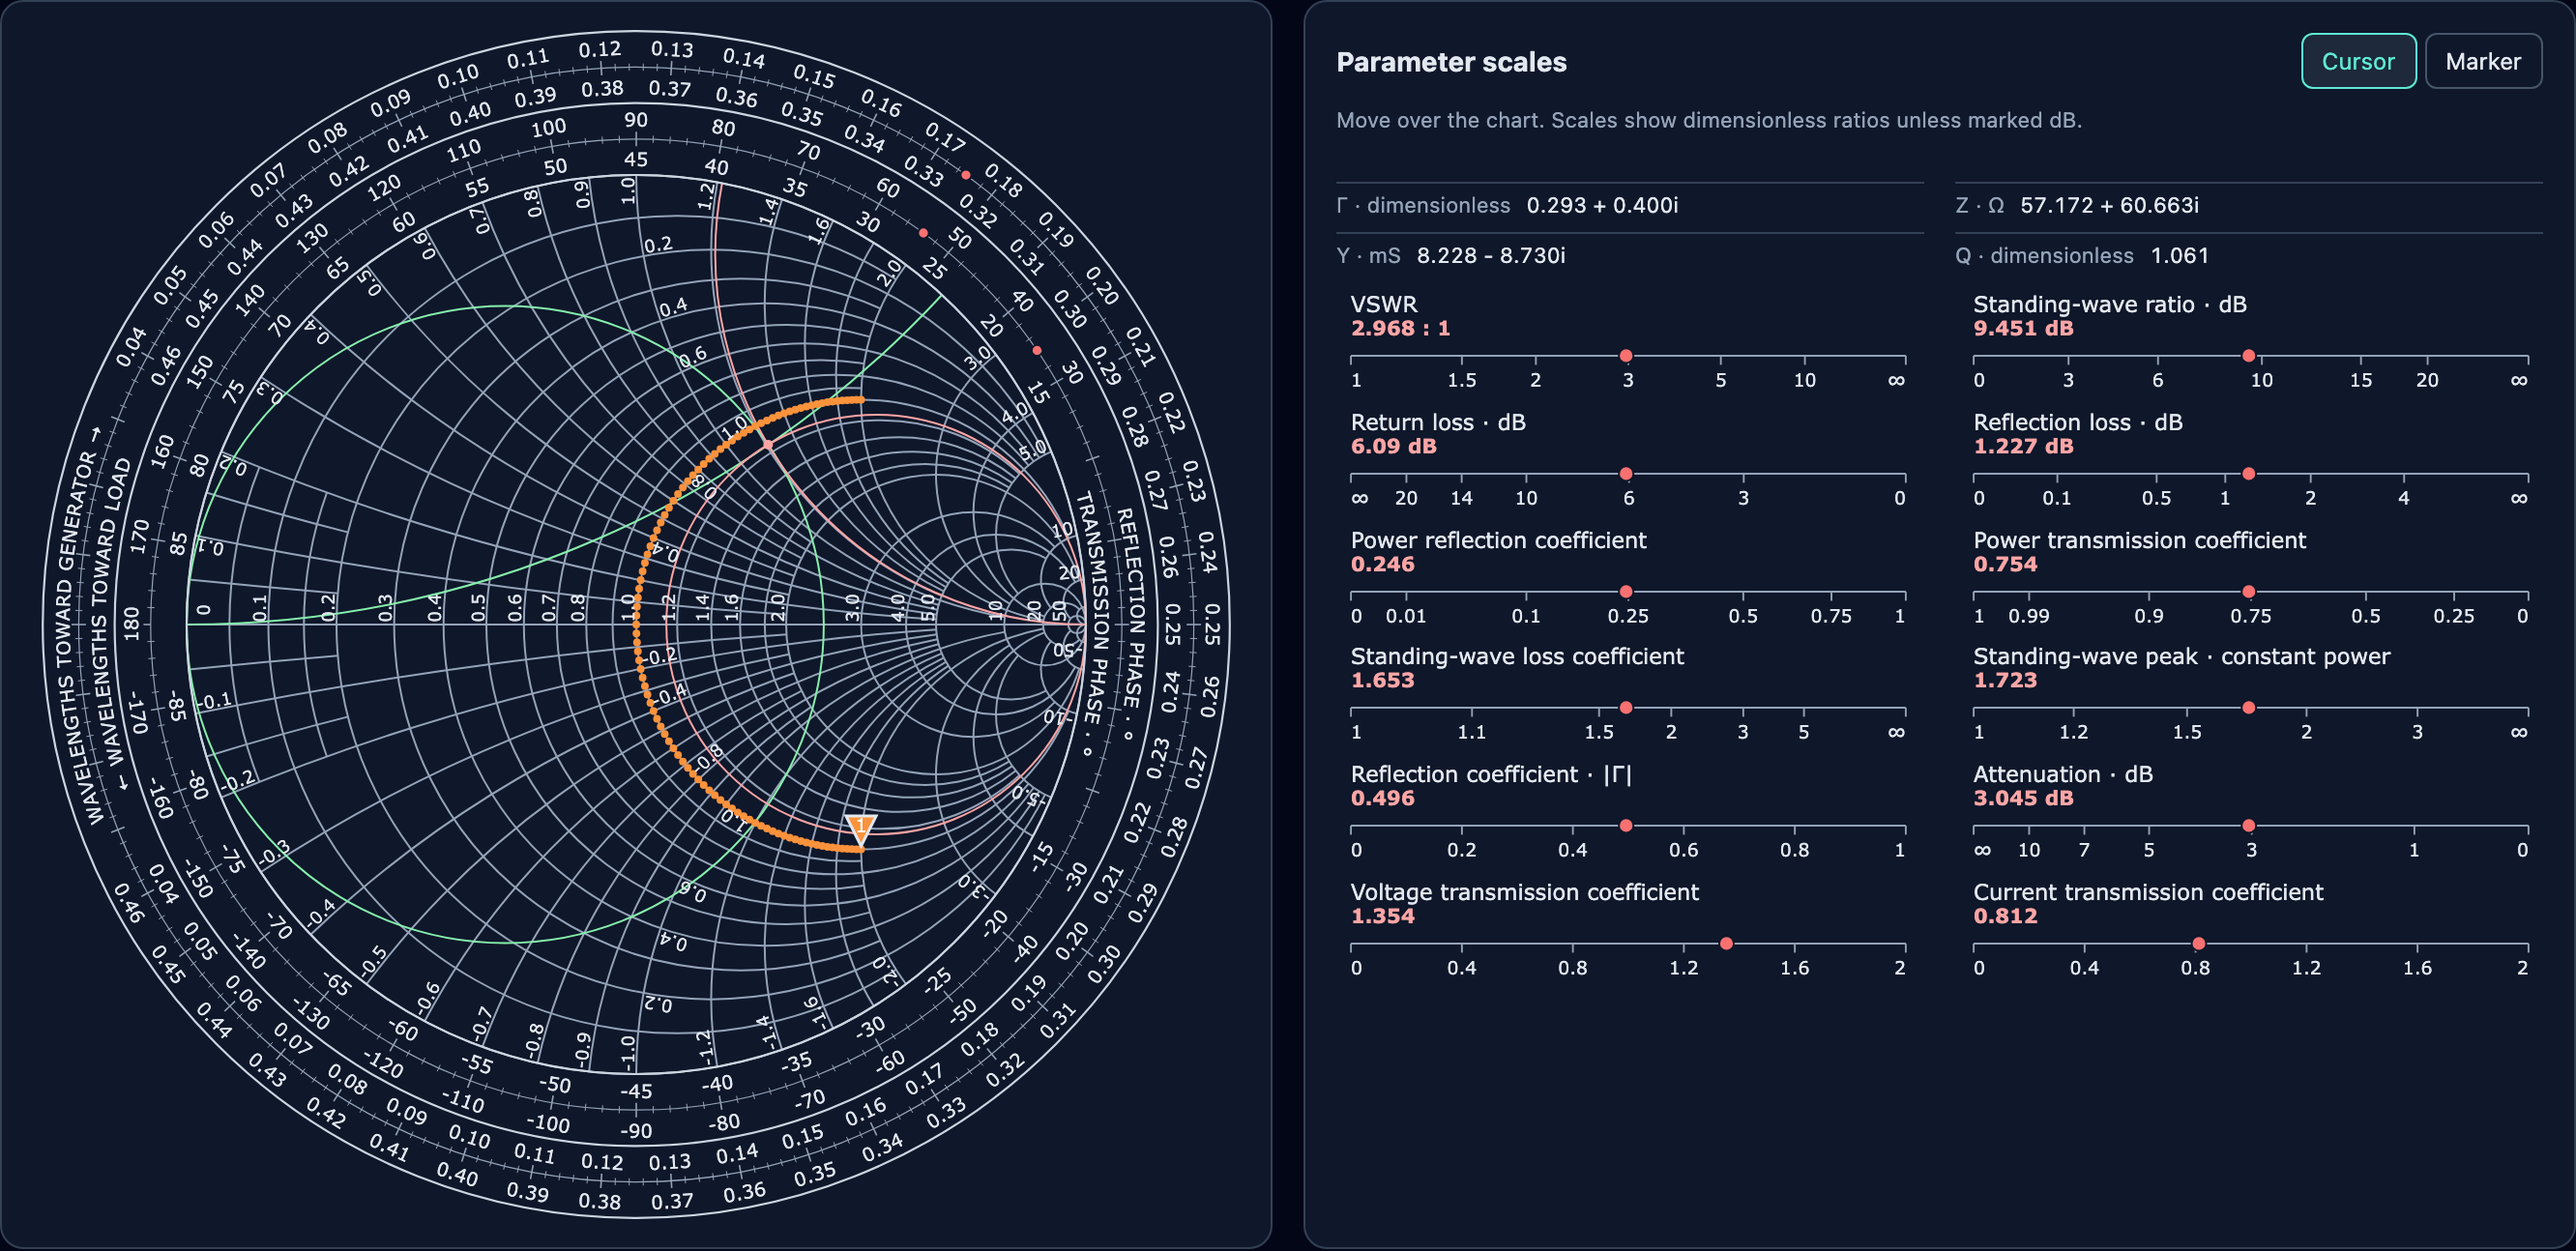
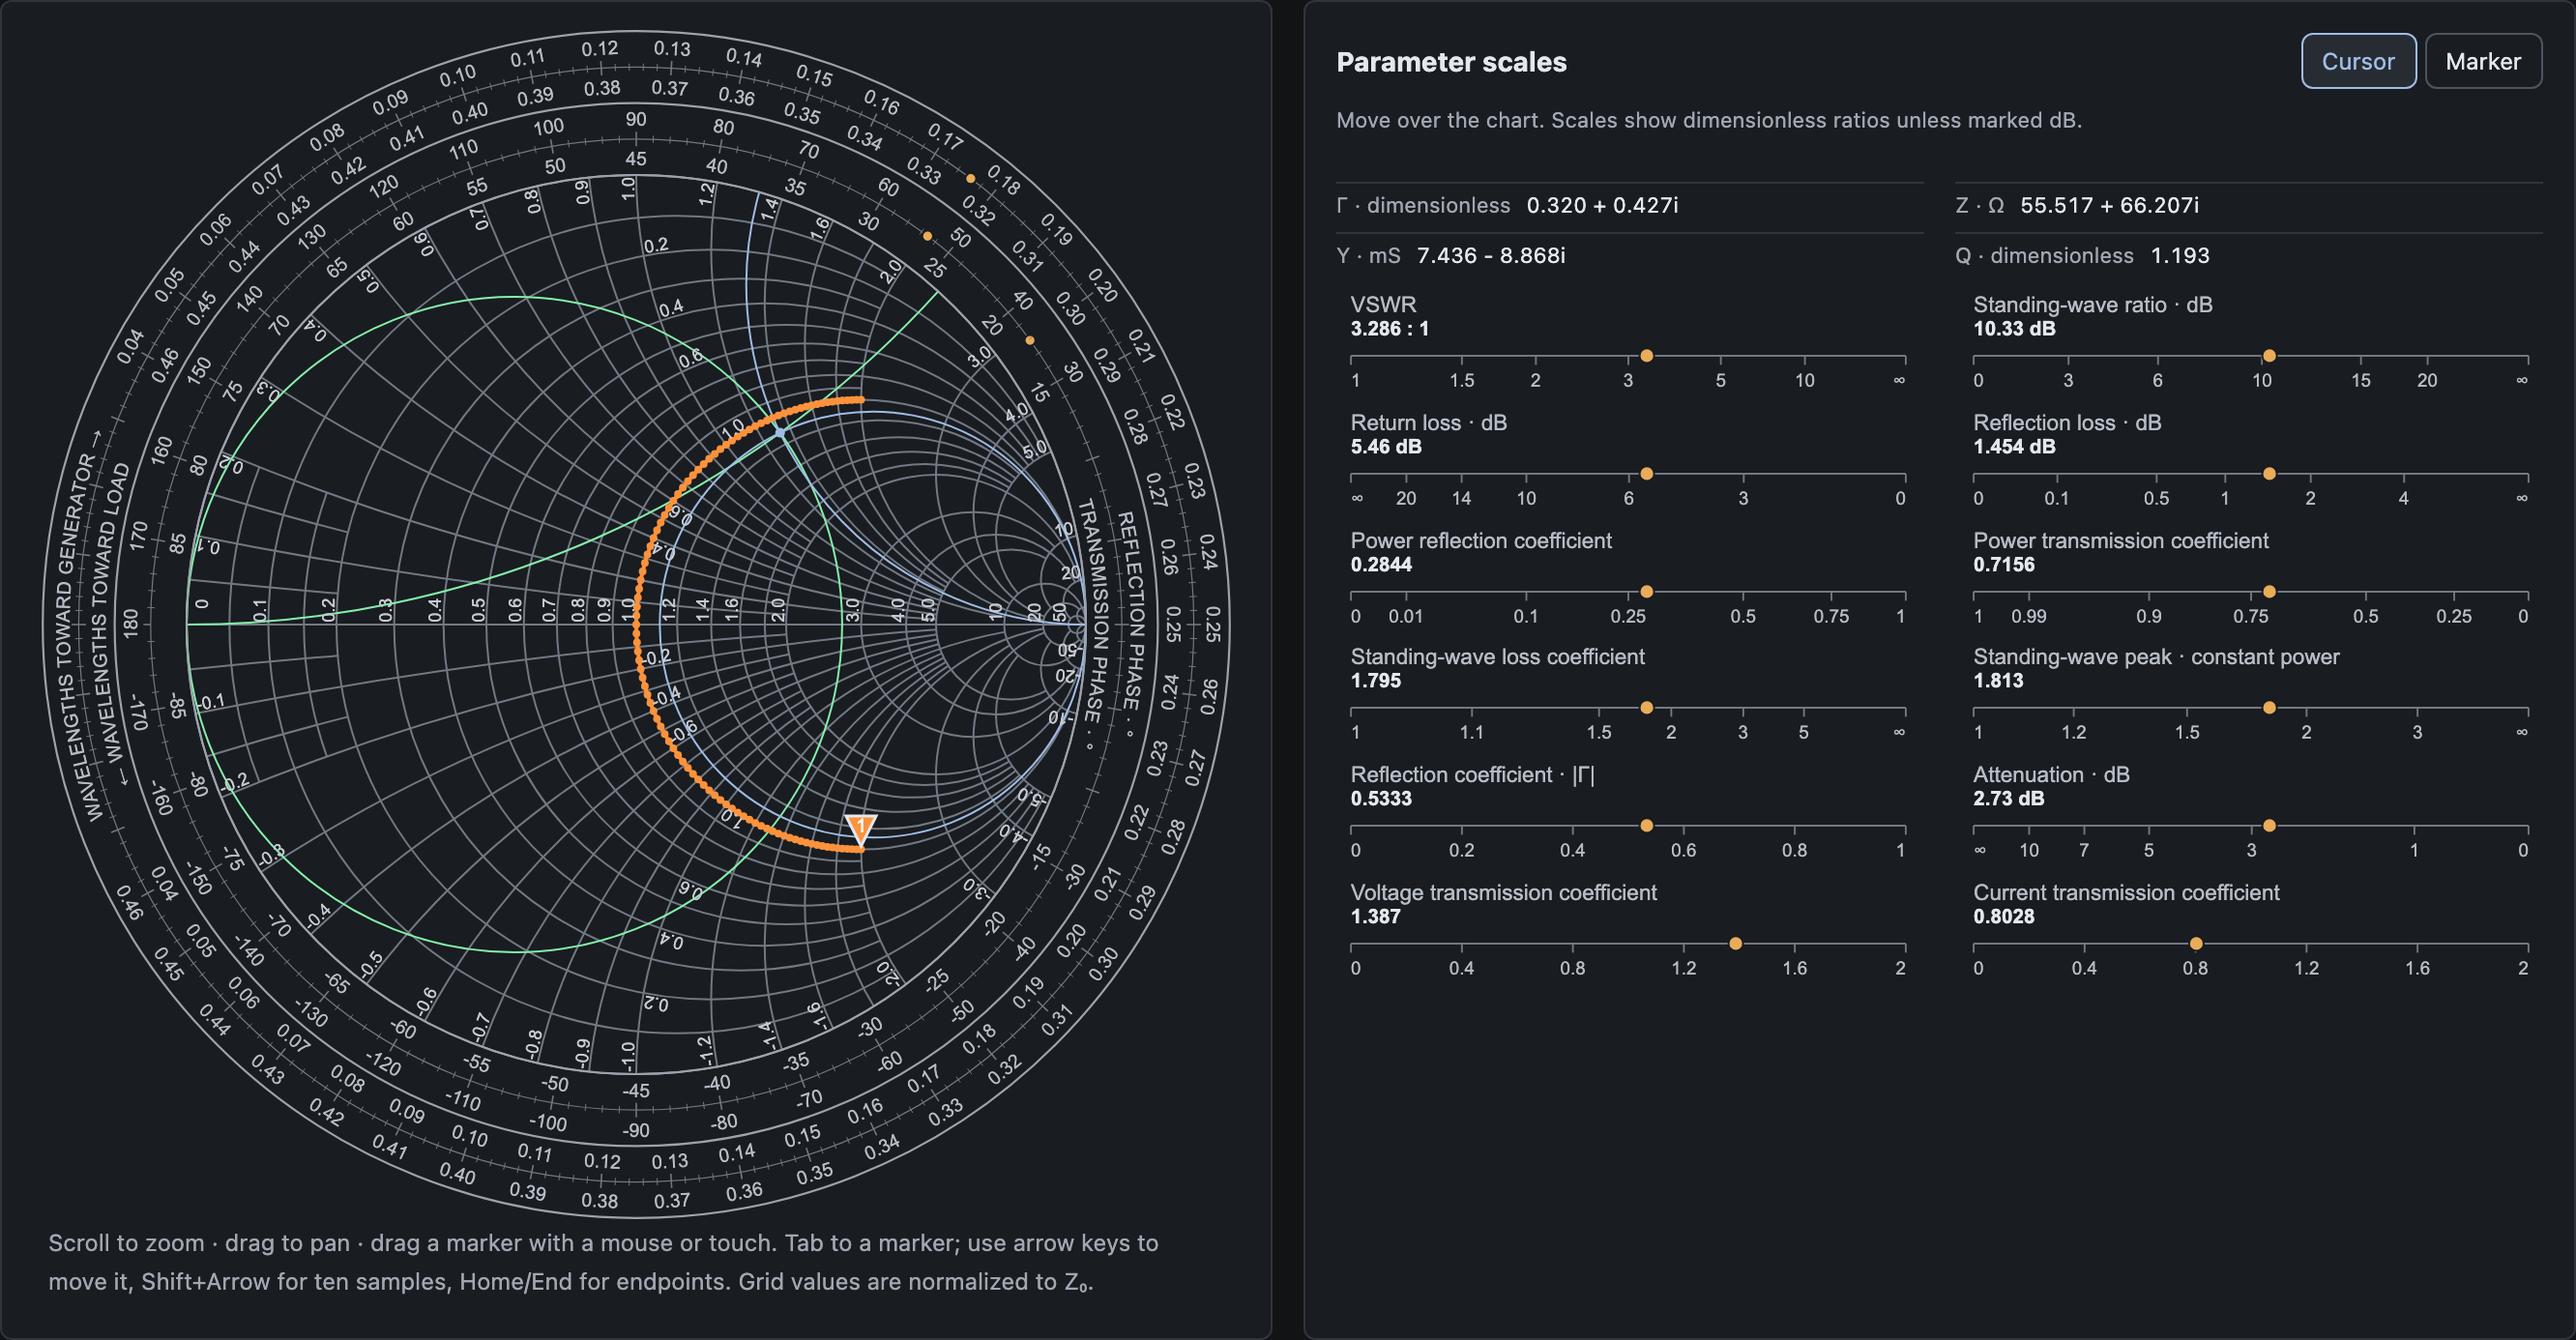
fix: correct demo navigation and touch backdrop dismissal (#60)
* fix: open API documentation explicitly from examples

* fix: use a native control for the settings backdrop

* docs: refresh README preview with the graphite dark theme

* fix: support native backdrop activation without pointer input

* fix: rely on native activation for desktop backdrop taps

Changed region(s): [[0.0, 0.0, 1.0, 1.0], [0.4985, 0.0309, 0.9658, 0.7728], [0.8724, 0.5873, 0.9035, 0.6182]]

diff --git a/examples/index.html b/examples/index.html
@@ -11,7 +11,7 @@
       <nav aria-label="Examples navigation">
         <a href="https://rosek86.github.io/smithkit/">← Full demo</a
         ><a href="https://github.com/rosek86/smithkit/tree/main/examples">Source on GitHub</a>
-        <a href="https://rosek86.github.io/smithkit/api/">API documentation</a>
+        <a href="https://rosek86.github.io/smithkit/api/index.html">API documentation</a>
       </nav>
       <header>
         <p class="eyebrow">SMITHKIT EXAMPLES</p>
@@ -73,7 +73,7 @@
       </div>
       <footer>
         All examples import from <code>smithkit</code>.
-        <a href="https://rosek86.github.io/smithkit/api/">Library documentation</a>
+        <a href="https://rosek86.github.io/smithkit/api/index.html">Library documentation</a>
       </footer>
     </main>
   </body>

diff --git a/demo/main.ts b/demo/main.ts
@@ -96,7 +96,10 @@ document.addEventListener('pointercancel', () => {
   settingsPressOutside = false;
 });
 document.addEventListener('click', (event) => {
-  if (settingsPressOutside && outsideSettings(event)) {
+  // The native backdrop button handles touch and keyboard activation itself.
+  // Only the modal dialog backdrop needs a separate outside-press guard.
+  const backdropActivation = event.target === settingsBackdrop;
+  if ((settingsPressOutside || backdropActivation) && outsideSettings(event)) {
     settingsDialog.close();
   }
   settingsPressOutside = false;

diff --git a/examples/angular/index.html b/examples/angular/index.html
@@ -10,7 +10,7 @@
       <nav aria-label="Examples navigation">
         <a href="../index.html">← All examples</a
         ><a href="https://rosek86.github.io/smithkit/">Full demo</a>
-        <a href="https://rosek86.github.io/smithkit/api/">API documentation</a>
+        <a href="https://rosek86.github.io/smithkit/api/index.html">API documentation</a>
       </nav>
       <header>
         <p class="eyebrow">SMITHKIT EXAMPLES</p>

diff --git a/examples/appearance/index.html b/examples/appearance/index.html
@@ -10,7 +10,7 @@
       <nav aria-label="Examples navigation">
         <a href="../index.html">← All examples</a
         ><a href="https://rosek86.github.io/smithkit/">Full demo</a>
-        <a href="https://rosek86.github.io/smithkit/api/">API documentation</a>
+        <a href="https://rosek86.github.io/smithkit/api/index.html">API documentation</a>
       </nav>
       <header>
         <p class="eyebrow">SMITHKIT EXAMPLES</p>

diff --git a/examples/export/index.html b/examples/export/index.html
@@ -10,7 +10,7 @@
       <nav aria-label="Examples navigation">
         <a href="../index.html">← All examples</a
         ><a href="https://rosek86.github.io/smithkit/">Full demo</a>
-        <a href="https://rosek86.github.io/smithkit/api/">API documentation</a>
+        <a href="https://rosek86.github.io/smithkit/api/index.html">API documentation</a>
       </nav>
       <header>
         <p class="eyebrow">SMITHKIT EXAMPLES</p>

diff --git a/examples/large-trace/index.html b/examples/large-trace/index.html
@@ -10,7 +10,7 @@
       <nav aria-label="Examples navigation">
         <a href="../index.html">← All examples</a
         ><a href="https://rosek86.github.io/smithkit/">Full demo</a>
-        <a href="https://rosek86.github.io/smithkit/api/">API documentation</a>
+        <a href="https://rosek86.github.io/smithkit/api/index.html">API documentation</a>
       </nav>
       <header>
         <p class="eyebrow">SMITHKIT EXAMPLES</p>

diff --git a/examples/markers/index.html b/examples/markers/index.html
@@ -10,7 +10,7 @@
       <nav aria-label="Examples navigation">
         <a href="../index.html">← All examples</a
         ><a href="https://rosek86.github.io/smithkit/">Full demo</a>
-        <a href="https://rosek86.github.io/smithkit/api/">API documentation</a>
+        <a href="https://rosek86.github.io/smithkit/api/index.html">API documentation</a>
       </nav>
       <header>
         <p class="eyebrow">SMITHKIT EXAMPLES</p>

diff --git a/examples/react/index.html b/examples/react/index.html
@@ -10,7 +10,7 @@
       <nav aria-label="Examples navigation">
         <a href="../index.html">← All examples</a
         ><a href="https://rosek86.github.io/smithkit/">Full demo</a>
-        <a href="https://rosek86.github.io/smithkit/api/">API documentation</a>
+        <a href="https://rosek86.github.io/smithkit/api/index.html">API documentation</a>
       </nav>
       <header>
         <p class="eyebrow">SMITHKIT EXAMPLES</p>

diff --git a/examples/static/index.html b/examples/static/index.html
@@ -10,7 +10,7 @@
       <nav aria-label="Examples navigation">
         <a href="../index.html">← All examples</a
         ><a href="https://rosek86.github.io/smithkit/">Full demo</a>
-        <a href="https://rosek86.github.io/smithkit/api/">API documentation</a>
+        <a href="https://rosek86.github.io/smithkit/api/index.html">API documentation</a>
       </nav>
       <header>
         <p class="eyebrow">SMITHKIT EXAMPLES</p>

diff --git a/examples/touchstone/index.html b/examples/touchstone/index.html
@@ -10,7 +10,7 @@
       <nav aria-label="Examples navigation">
         <a href="../index.html">← All examples</a
         ><a href="https://rosek86.github.io/smithkit/">Full demo</a>
-        <a href="https://rosek86.github.io/smithkit/api/">API documentation</a>
+        <a href="https://rosek86.github.io/smithkit/api/index.html">API documentation</a>
       </nav>
       <header>
         <p class="eyebrow">SMITHKIT EXAMPLES</p>

diff --git a/examples/basic/index.html b/examples/basic/index.html
@@ -12,7 +12,7 @@
         <a href="https://github.com/rosek86/smithkit/blob/main/examples/basic/main.ts"
           >View TypeScript source</a
         >
-        <a href="https://rosek86.github.io/smithkit/api/">API documentation</a>
+        <a href="https://rosek86.github.io/smithkit/api/index.html">API documentation</a>
       </nav>
       <header>
         <p class="eyebrow">SMITHKIT EXAMPLES</p>

diff --git a/index.html b/index.html
@@ -182,7 +182,13 @@
       </div>
       <footer>Smithkit</footer>
     </main>
-    <div id="settings-backdrop" hidden aria-hidden="true"></div>
+    <button
+      id="settings-backdrop"
+      type="button"
+      tabindex="-1"
+      aria-label="Close chart settings"
+      hidden
+    ></button>
     <dialog
       id="chart-settings"
       aria-labelledby="chart-settings-title"
